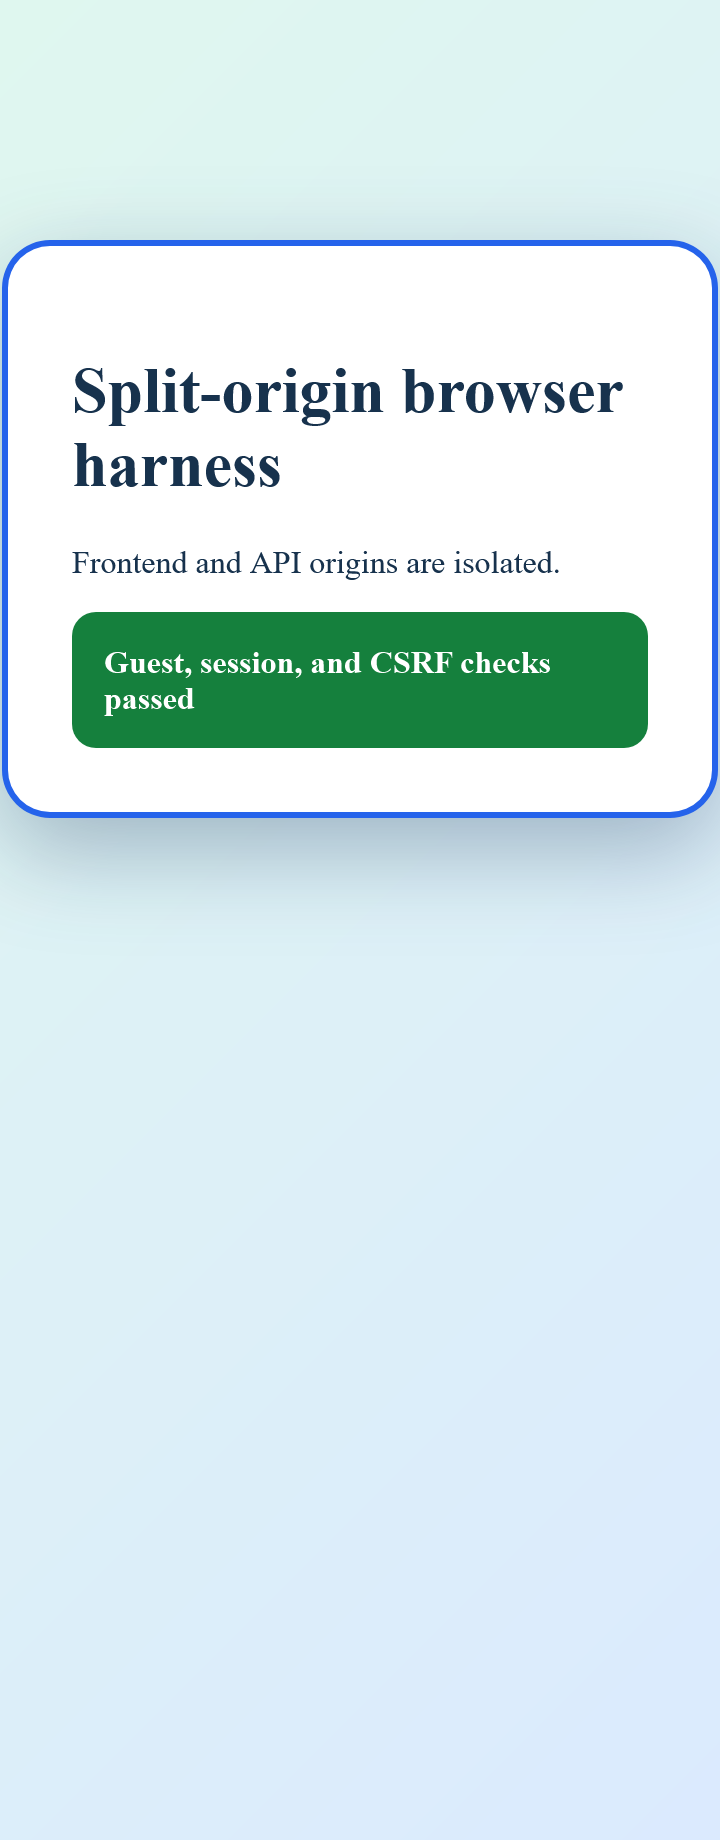
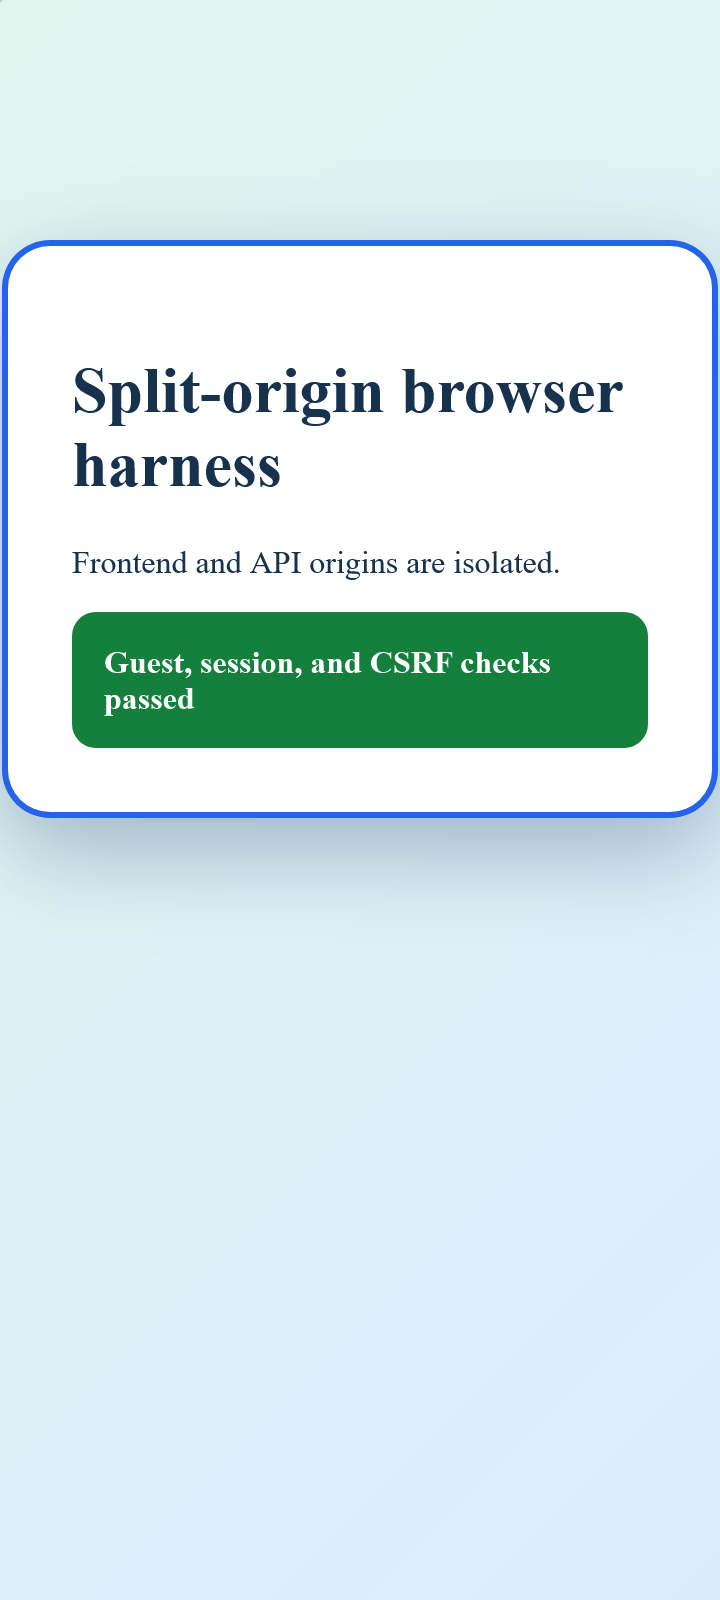
test: capture focused split-origin evidence

Changed region(s): [[0.0, 0.1875, 1.0, 0.5625], [0.0, 0.125, 1.0, 0.1875]]

diff --git a/tests/split-origin-flow.spec.js b/tests/split-origin-flow.spec.js
@@ -157,7 +157,6 @@ test("browser retains secure same-site cross-origin cookies for CSRF-protected m
   expect(pantry.status).toBe(201);
   expect(pantry.body.item.name).toBe("김치");
   await page.screenshot({
-    path: path.join(root, "artifacts", `split-origin-browser-${testInfo.project.name}.png`),
-    fullPage: true
+    path: path.join(root, "artifacts", `split-origin-browser-${testInfo.project.name}.png`)
   });
 });
